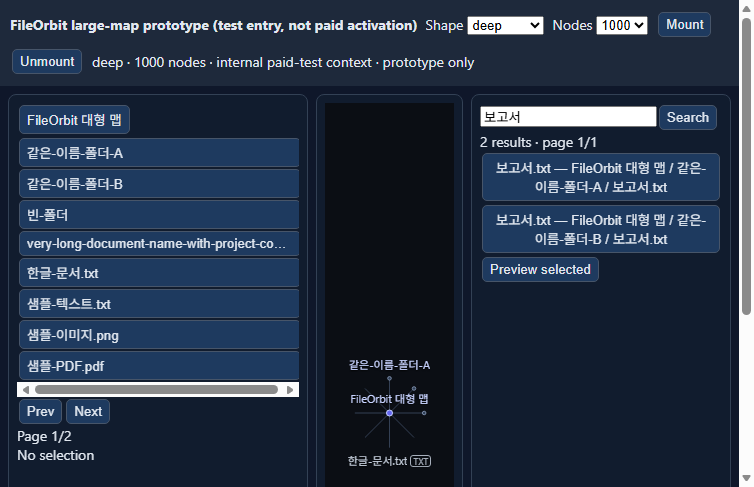
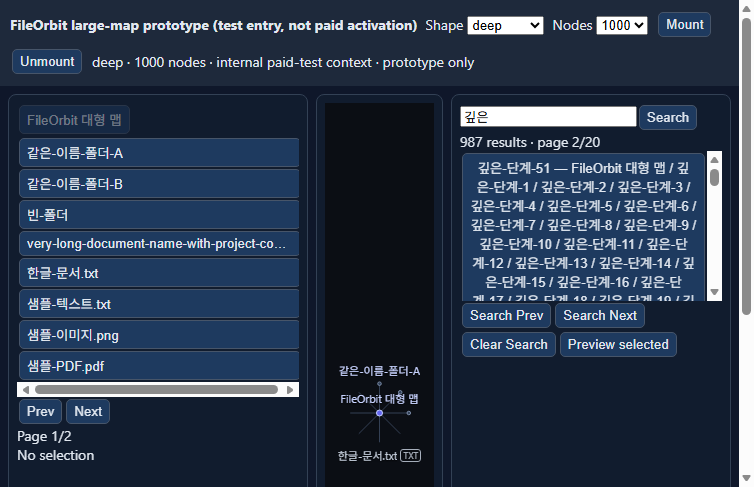
Correct large-map previews, graph controls, search paging and reset

diff --git a/tests/harness/large-map/index.html b/tests/harness/large-map/index.html
@@ -1,1 +1,1 @@
-<!doctype html><html lang="en"><head><meta charset="utf-8"><meta name="viewport" content="width=device-width,initial-scale=1"><title>FileOrbit large-map prototype</title><style>body{font:14px system-ui;margin:0;background:#0f172a;color:#e2e8f0}header{background:#1e293b;padding:10px;display:flex;gap:8px;flex-wrap:wrap;align-items:center}main{display:grid;grid-template-columns:300px 1fr 260px;gap:8px;padding:8px}section{background:#111c2e;border:1px solid #334155;border-radius:8px;padding:8px;min-width:0}button{background:#1e3a5f;color:#e2e8f0;border:1px solid #475569;border-radius:5px;padding:4px 7px;margin:2px;cursor:pointer}.item{display:block;width:100%;text-align:left;overflow:hidden;text-overflow:ellipsis;white-space:nowrap}#items{max-height:420px;overflow:auto}#lod{position:relative;height:620px;background:#020617;overflow:hidden}.lods{position:relative;width:100%;height:620px;overflow:hidden}#results{max-height:150px;overflow:auto}img{max-width:180px}</style></head><body><header><b>FileOrbit large-map prototype (test entry, not paid activation)</b><label>Shape <select id="shape"><option>flat</option><option>wide</option><option>balanced</option><option>mixed</option><option>deep</option></select></label><label>Nodes <select id="count"><option>300</option><option>1000</option></select></label><button id="mount">Mount</button><button id="unmount">Unmount</button><span id="status">Ready</span></header><main><section><div id="crumbs"></div><div id="items"></div><button id="prev">Prev</button><button id="next">Next</button><div id="page"></div><div id="details"></div></section><section><div id="lod"></div></section><section><form id="search-form"><input name="q" placeholder="Search"><button>Search</button></form><div id="search-info"></div><div id="results"></div><button id="preview">Preview selected</button><div id="preview-output"></div></section></main><script type="module" src="./app.mjs"></script></body></html>
+<!doctype html><html lang="en"><head><meta charset="utf-8"><meta name="viewport" content="width=device-width,initial-scale=1"><title>FileOrbit large-map prototype</title><style>body{font:14px system-ui;margin:0;background:#0f172a;color:#e2e8f0}header{background:#1e293b;padding:10px;display:flex;gap:8px;flex-wrap:wrap;align-items:center}main{display:grid;grid-template-columns:300px 1fr 280px;gap:8px;padding:8px}section{background:#111c2e;border:1px solid #334155;border-radius:8px;padding:8px;min-width:0}button{background:#1e3a5f;color:#e2e8f0;border:1px solid #475569;border-radius:5px;padding:4px 7px;margin:2px;cursor:pointer}button:disabled{opacity:.45;cursor:default}.item{display:block;width:100%;text-align:left;overflow:hidden;text-overflow:ellipsis;white-space:nowrap}#items{max-height:420px;overflow:auto}#lod{position:relative;height:620px;background:#020617;overflow:hidden}.lods{position:relative;width:100%;height:620px;overflow:hidden}#results{max-height:150px;overflow:auto}img{max-width:240px}</style></head><body><header><b>FileOrbit large-map prototype (test entry, not paid activation)</b><label>Shape <select id="shape"><option>flat</option><option>wide</option><option>balanced</option><option>mixed</option><option>deep</option></select></label><label>Nodes <select id="count"><option>300</option><option>1000</option></select></label><button id="mount">Mount</button><button id="unmount">Unmount</button><span id="status">Ready</span></header><main><section><div id="crumbs"></div><div id="items"></div><button id="prev">Prev</button><button id="next">Next</button><div id="page"></div><div id="details"></div></section><section><div id="lod"></div></section><section><form id="search-form"><input name="q" placeholder="Search"><button>Search</button></form><div id="search-info"></div><div id="results"></div><button id="search-prev">Search Prev</button><button id="search-next">Search Next</button><button id="search-clear">Clear Search</button><button id="preview">Preview selected</button><div id="preview-output"></div></section></main><script type="module" src="./app.mjs"></script></body></html>

diff --git a/tests/harness/large-map/README.md b/tests/harness/large-map/README.md
@@ -6,28 +6,37 @@ This is a synthetic large-map test experience, not production paid activation.
 
 ```powershell
 cd C:\Users\openw\Documents\Projects\FileOrbit-git
-python -m http.server 8161 --bind 127.0.0.1 --directory .
+python -m http.server 8162 --bind 127.0.0.1 --directory .
 ```
 
 Chrome or Edge:
 
-`http://127.0.0.1:8161/tests/harness/large-map/index.html`
+`http://127.0.0.1:8162/tests/harness/large-map/index.html`
 
 Do not use GitHub Pages or external hosting.
+
+## Working controls
+
+- Mount/unmount fixture; mount replaces and disposes the previous runtime.
+- List, graph node/label, and breadcrumb navigation.
+- Folder/cluster pagination via Prev/Next.
+- Search with separate Previous/Next/Clear controls.
+- Preview selected file: valid synthetic text, PNG, PDF and zero-byte test attachment.
+- Graph clicks use the renderer adapter’s label hit test and scene hit test.
 
 ## Fixture matrix
 
 - Shapes: flat, wide, balanced, mixed, deep.
-- Counts: 300 total nodes including root (free context) and 1,000 total nodes including root (explicit internal paid-test context).
-- Includes long names, Korean names, duplicate `보고서.txt` in different folders, empty folder, empty file, text/image/PDF sample attachments.
+- Counts: 300 total including root (free context) and 1,000 total including root (explicit internal paid-test context).
+- Long names, Korean names, duplicate `보고서.txt` in separate folders, empty folder, empty file, text/image/PDF sample attachments.
 - Attachment limits remain 20 MiB/file and 100 MiB/map.
 
 ## First user scenarios
 
-1. Flat 300: identify root, find `샘플-텍스트.txt`, preview it.
+1. Flat 300: find `샘플-텍스트.txt`, preview it.
 2. Balanced 300: navigate groups/pages, return to root.
-3. Mixed 300: search `보고서`, distinguish the two same-named files by path, clear search.
-4. Deep 300: navigate depth and return; repeat to check context is not lost.
+3. Mixed 300: search `보고서`, distinguish same-named files by path, clear search.
+4. Deep 300: navigate depth and return; repeat.
 5. Wide 300: page through groups and select a file.
 
 Then optionally:
@@ -41,22 +50,34 @@ Then optionally:
 
 - Identify the current folder and return to root.
 - Navigate groups/pages and find a specified file.
-- Search, reveal a result and clear search.
-- Read filenames; distinguish same-named files by location.
+- Search, reveal a result page later than page 1, and clear search.
+- Distinguish same-named files by location.
 - Understand selection and search-path highlighting.
-- Preview supported sample content where functional.
+- Preview the valid PNG and PDF samples; confirm image visibility/readable PDF page.
+- Click graph nodes/labels and confirm list/breadcrumb/details stay synchronized.
 - Repeat navigation without stale selection or lost context.
+- Mount fixture B after searching/previewing A; confirm no stale results/preview remains.
+- Unmount and confirm page/preview/search controls are disabled.
 
-## Technical observations (automated)
+## Automated browser checks
 
-- Fixture counts exact for all five shapes at 300 and 1,000.
-- Edge smoke: flat 300 mounted with 8 root items; duplicate-name search returned 2 results; deep 1,000 mounted with one stage; no browser errors.
-- These are technical smoke observations only, not human usability acceptance.
+`node .large-map-corrected.mjs` equivalent is committed as `tests/harness/large-map/browser-check.mjs` (requires local server and Edge). Latest evidence: `evidence/large-map/corrected-execution.json`.
+
+Checked:
+- flat 300 model count 300;
+- search 6 pages, page 2 navigation, result reveal, clear;
+- PNG image naturalWidth > 0;
+- PDF bytes start `%PDF` and embed exists;
+- fixture replacement clears search/preview/details, one stage;
+- graph cluster click expands;
+- unmount disables controls, clears preview, zero stages;
+- deep 1,000 count 1000, 20 search pages, page 2 shows results;
+- browser errors 0.
 
 ## Limitations
 
-- Prototype test entry; no production Save/Open, no writable handles, no paid activation.
+- Prototype test entry; no production Save/Open, writable handles, editing or paid activation.
 - No native OS picker/disk acceptance.
-- The 1,000-node context is internally issued for this test only.
+- 1,000-node context is internally issued for this test only.
 - Folder Upload/cloud/Tauri/enterprise are outside this delivery.
-- Human usability feedback is pending; automated reachability is not usability acceptance.
+- Automated checks are not human usability acceptance; human feedback pending.

diff --git a/docs/engine/FILEORBIT-LARGE-MAP-USER-TEST.md b/docs/engine/FILEORBIT-LARGE-MAP-USER-TEST.md
@@ -3,18 +3,30 @@
 Test entry: `tests/harness/large-map/index.html`.
 
 - Default free context at 300 total nodes.
-- Explicit internal paid-test context only when the tester selects 1,000; this is not production paid activation.
-- Colors/formats are supplied by promoted modules: search path `#60A5FA`, edge opacity `0.55`, PDF filename/type badge `#F87171`, icon-free graph labels.
+- Explicit internal paid-test context only when 1,000 is selected; not production paid activation.
+- Colors/formats supplied by promoted modules: search path `#60A5FA`, edge opacity `0.55`, PDF filename/type badge `#F87171`, icon-free labels.
 
-## Separation of evidence
+## Preview samples
 
-- Technical observations from automated Edge smoke and fixture count checks are recorded in `tests/harness/large-map/README.md`.
-- Human usability feedback must be recorded separately after the user runs the checklist. No feedback is invented here.
-- Native picker/disk checks remain NOT RUN.
+- PNG is a valid 1×1 PNG scaled up for visibility; browser `naturalWidth` verified 1.
+- PDF is a minimal valid PDF with page/text objects, xref and trailer; browser embed present and bytes start `%PDF`.
+- Text and zero-byte attachments retained.
+
+## Graph and search
+
+- Graph clicks use adapter `labelAtPoint`/`hitTest`; one listener on the stable `#lod` parent, no per-mount accumulation.
+- Search Previous/Next/Clear are separate from folder/cluster pagination.
+- Search state resets on mount/unmount/replacement; preview DOM is cleared before runtime disposal/URL revocation.
+
+## Evidence separation
+
+- Automated technical checks: `evidence/large-map/corrected-execution.json`.
+- Human usability feedback: pending, not yet collected. No feedback is invented.
+- Native picker/disk: NOT RUN.
 
 ## Prototype limitations
 
 - No Save/Open or writable destination integration in this prototype.
-- No editing/Undo/Redo controls exposed in this test viewer.
+- No editing/Undo/Redo controls.
 - No folder Upload/cloud/Tauri/enterprise.
-- One mounted LOD stage is expected; repeated mount disposes the previous runtime.
+- One mounted LOD stage expected; repeated mount disposes previous runtime.
